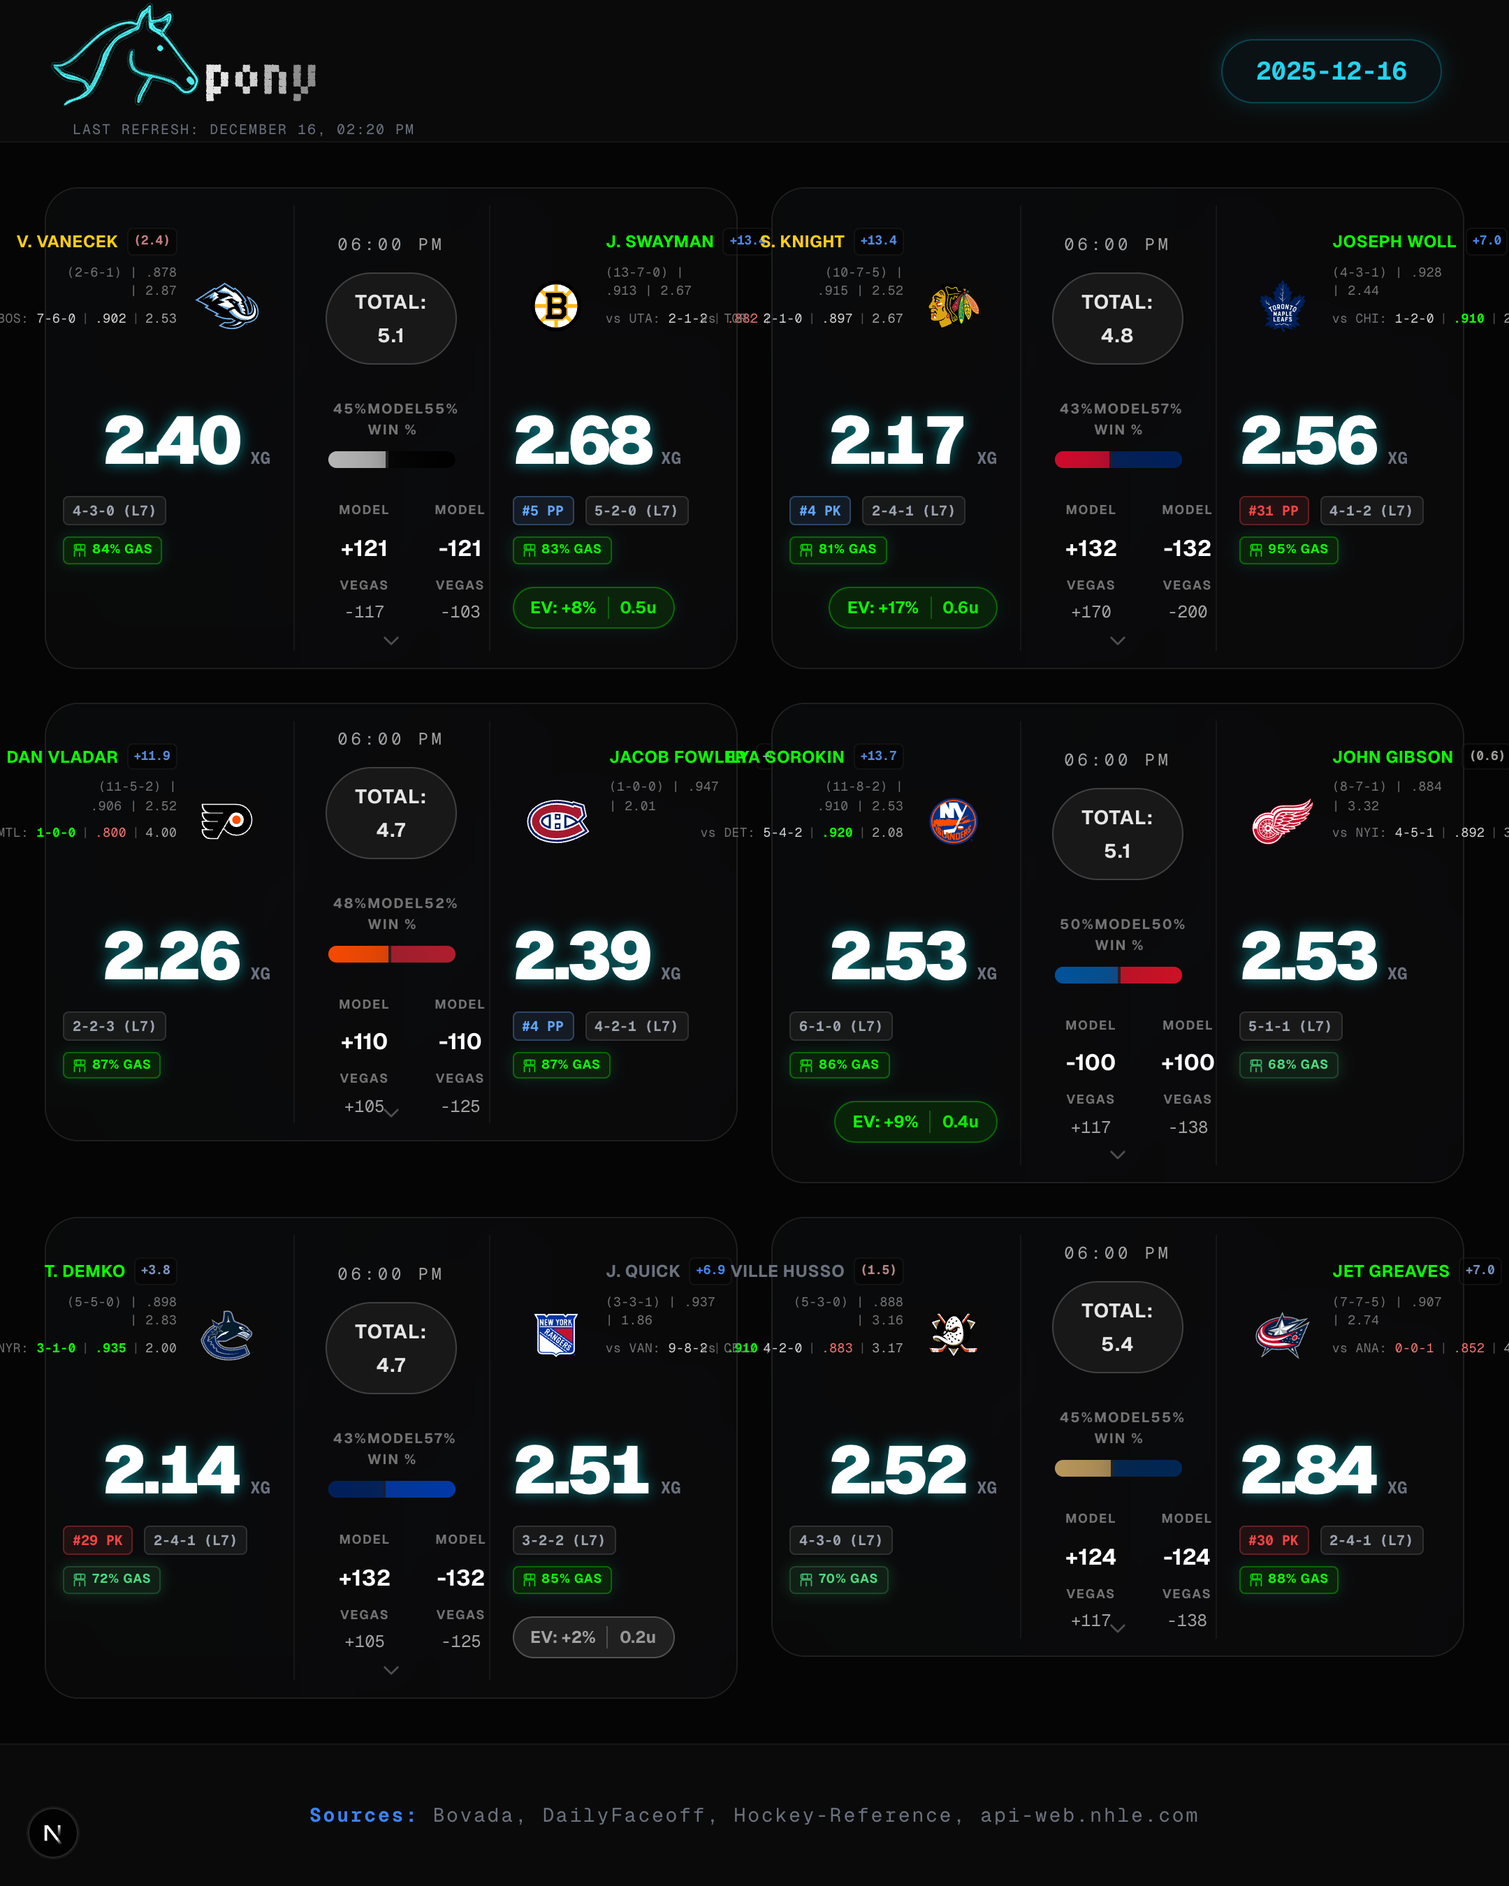
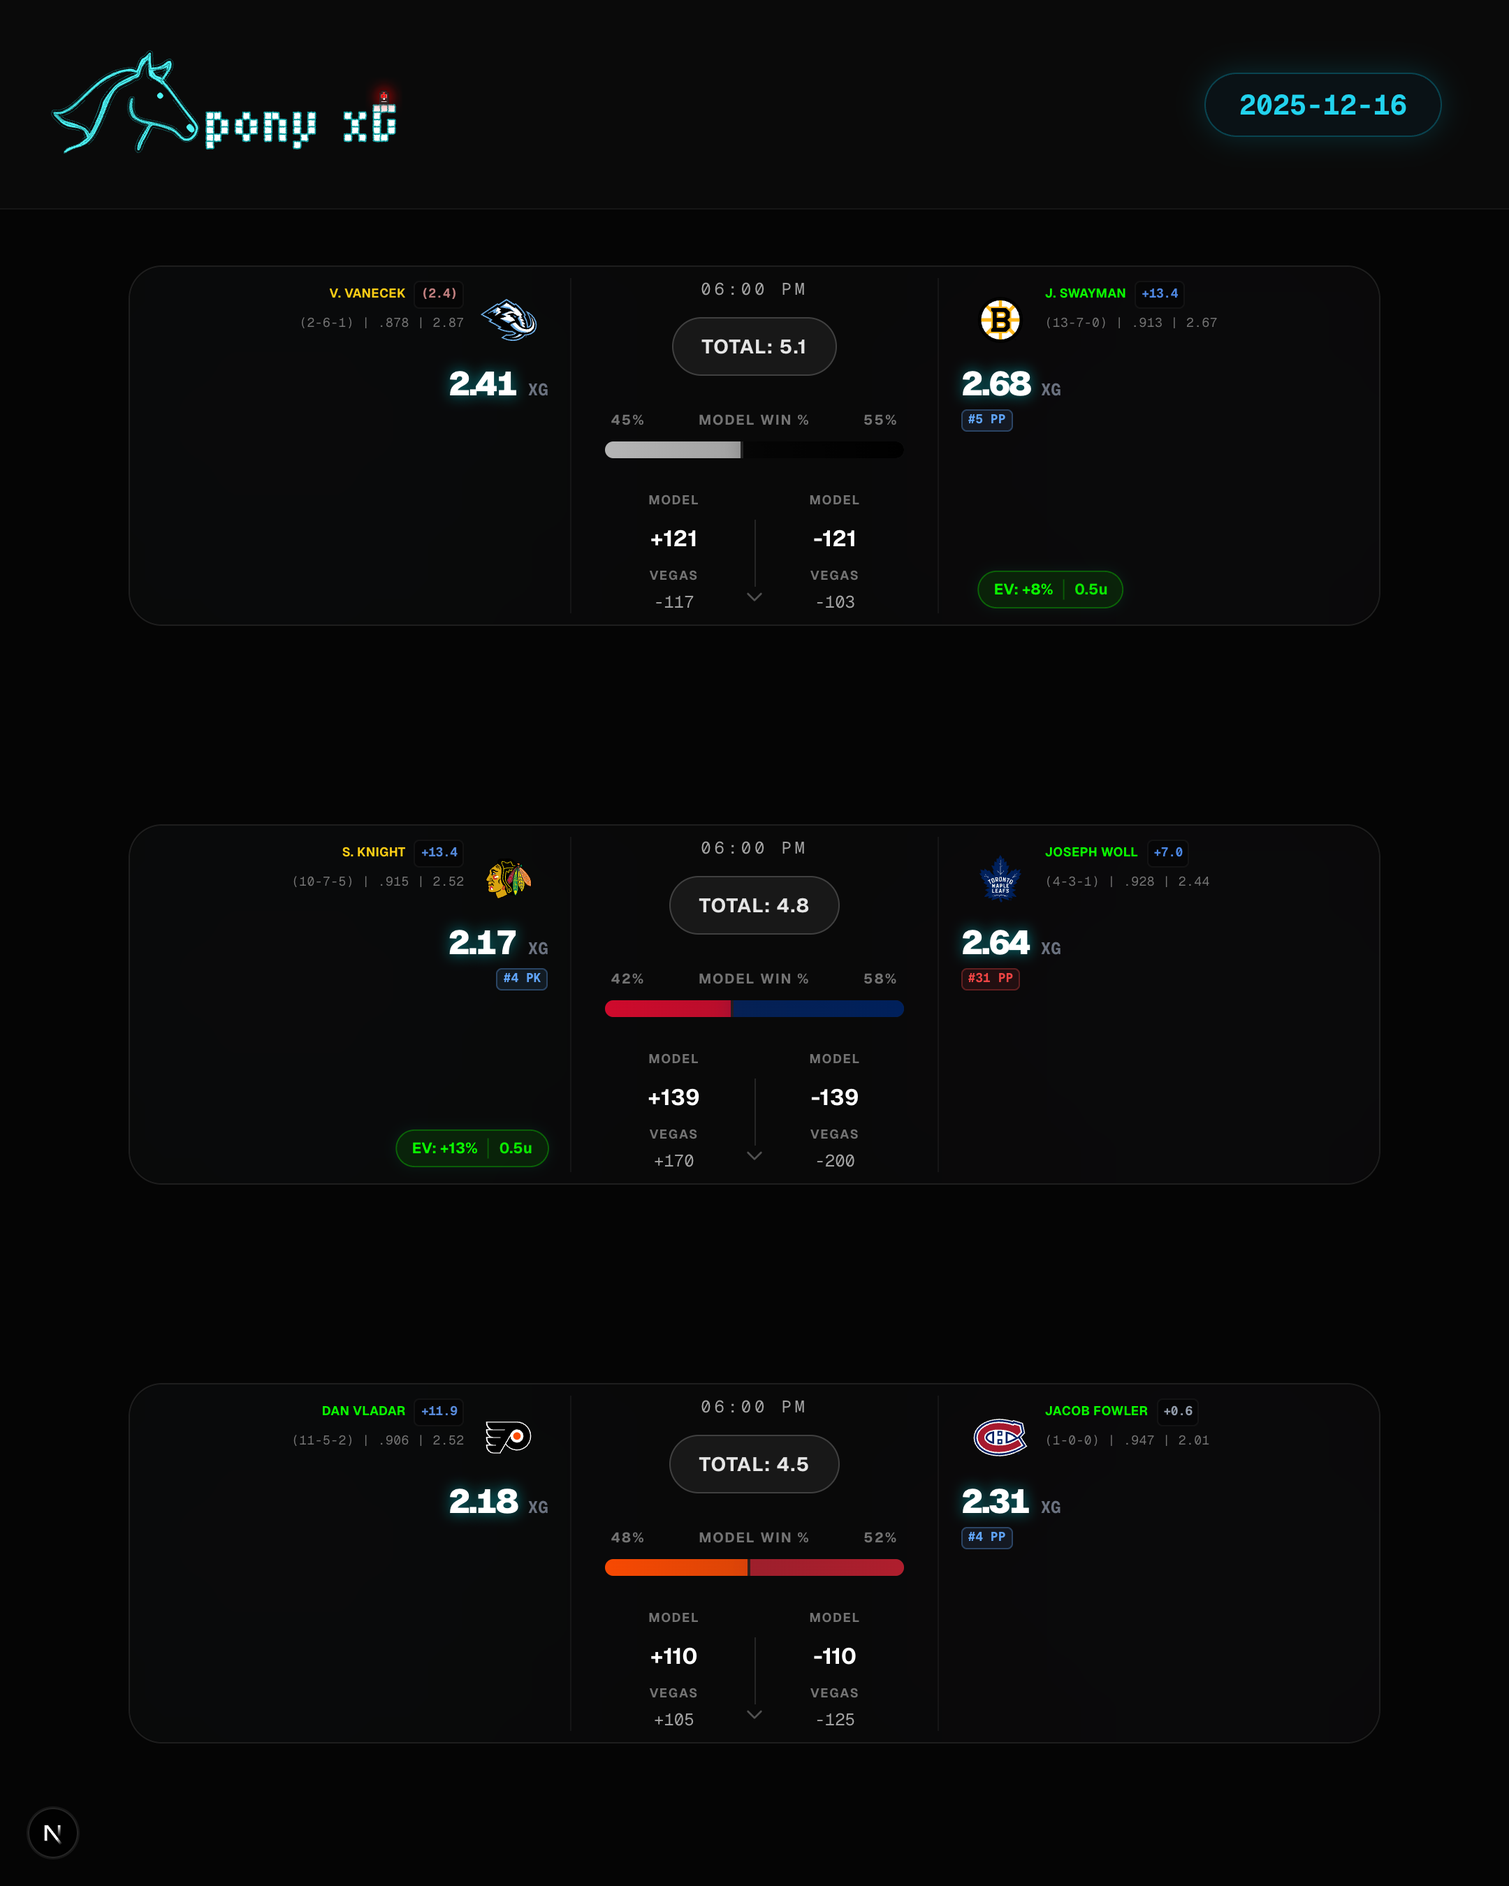
Auto-Update: Data & Predictions [2025-12-16 15:04:55]

diff --git a/components/MatchupCard.tsx b/components/MatchupCard.tsx
@@ -314,14 +314,18 @@ const MatchupCard: React.FC<MatchupCardProps> = ({ prediction, maxTotalGoals, is
         return "bg-neon-green/10 border border-neon-green/30 text-neon-green shadow-[0_0_10px_rgba(16,185,129,0.1)] hover:shadow-[0_0_15px_rgba(16,185,129,0.2)]";
     };
 
-    const Badge = ({ children, color = 'blue' }: { children: React.ReactNode, color?: 'blue' | 'red' | 'gray' }) => {
+    const Badge = ({ children, color = 'blue', size = 'sm' }: { children: React.ReactNode, color?: 'blue' | 'red' | 'gray', size?: 'xs' | 'sm' }) => {
         const colorClasses = {
             blue: 'text-blue-400 bg-blue-400/10 border-blue-400/30',
             red: 'text-red-500 bg-red-500/10 border-red-500/30',
             gray: 'text-gray-400 bg-white/5 border-white/10'
         };
+        const sizeClasses = {
+            xs: 'text-[9px] px-1 py-0',
+            sm: 'text-[10px] px-1.5 py-0.5'
+        };
         return (
-            <span className={`text-[10px] font-mono font-bold px-1.5 py-0.5 rounded border backdrop-blur-sm ${colorClasses[color]}`}>
+            <span className={`font-mono font-bold rounded border backdrop-blur-sm ${colorClasses[color]} ${sizeClasses[size]}`}>
                 {children}
             </span>
         );
@@ -415,7 +419,8 @@ const MatchupCard: React.FC<MatchupCardProps> = ({ prediction, maxTotalGoals, is
         goalieStats,
         vsOppStats,
         opponentTriCode,
-        odds
+        odds,
+        isSocial
     }: {
         team: any,
         isHome: boolean,
@@ -433,7 +438,8 @@ const MatchupCard: React.FC<MatchupCardProps> = ({ prediction, maxTotalGoals, is
         goalieStats?: string,
         vsOppStats?: string,
         opponentTriCode?: string,
-        odds?: string | number | null
+        odds?: string | number | null,
+        isSocial?: boolean
     }) => {
         const alignClass = isHome ? 'md:items-start md:text-left' : 'md:items-end md:text-right';
         const evBadge = ev && ev > 0 ? formatEv(ev) : null;
@@ -448,20 +454,20 @@ const MatchupCard: React.FC<MatchupCardProps> = ({ prediction, maxTotalGoals, is
         if (vsOppStats) { try { vsOpp = JSON.parse(vsOppStats); } catch (e) { } }
 
         return (
-            <div className={`flex flex-col items-center py-4 relative z-10 w-full h-full ${alignClass}`}>
+            <div className={`flex flex-col items-center ${isSocial ? 'py-0.5' : 'py-4'} relative z-10 w-full h-full ${alignClass}`}>
                 {/* Team Info Header */}
-                <div className={`flex flex-col gap-1 mb-4 w-full ${isHome ? 'md:flex-row' : 'md:flex-row-reverse'} items-center md:items-start`}>
+                <div className={`flex flex-col gap-1 ${isSocial ? 'mb-0.5' : 'mb-4'} w-full ${isHome ? 'md:flex-row' : 'md:flex-row-reverse'} items-center md:items-start`}>
                     <LogoDisplay
                         src={team.logoUrl}
                         alt={team.name}
                         triCode={team.triCode}
-                        className="w-20 h-20 md:w-28 md:h-28"
+                        className={isSocial ? "w-14 h-14" : "w-20 h-20 md:w-28 md:h-28"}
                         primaryColor={team.color1}
                         variant="animated"
                     />
-                    <div className={`flex flex-col ${alignClass} items-center min-w-0 max-w-full justify-center gap-1`}>
+                    <div className={`flex flex-col ${alignClass} items-center min-w-0 max-w-full justify-center gap-0.5`}>
                         <div className="flex items-center gap-1.5 flex-nowrap justify-center md:justify-start">
-                            <span className={`text-[10px] md:text-xs font-bold uppercase tracking-wide truncate max-w-full ${(status?.toUpperCase()?.includes('UNCONFIRMED')) ? 'text-gray-500' :
+                            <span className={`${isSocial ? 'text-[9px]' : 'text-[10px] md:text-xs'} font-bold uppercase tracking-wide truncate max-w-full ${(status?.toUpperCase()?.includes('UNCONFIRMED')) ? 'text-gray-500' :
                                 (status?.toUpperCase()?.includes('CONFIRMED')) ? 'text-neon-green' :
                                     (status?.toUpperCase()?.includes('LIKELY')) ? 'text-yellow-400' : 'text-gray-500'
                                 }`}>
@@ -483,9 +489,9 @@ const MatchupCard: React.FC<MatchupCardProps> = ({ prediction, maxTotalGoals, is
                 </div>
 
                 {/* Main Stats (xG) */}
-                <div className={`flex flex-col ${alignClass} mb-4 items-center`}>
+                <div className={`flex flex-col ${alignClass} ${isSocial ? 'mb-0.5' : 'mb-4'} items-center`}>
                     <div className="flex items-baseline gap-2">
-                        <span className="text-4xl md:text-5xl font-black text-white tracking-tighter tabular-nums text-glow-blue">
+                        <span className={`${isSocial ? 'text-2xl' : 'text-4xl md:text-5xl'} font-black text-white tracking-tighter tabular-nums text-glow-blue`}>
                             <AnimatedNumber value={xg} toFixed={2} />
                         </span>
                         <span className="text-xs font-mono text-gray-500 font-bold uppercase">xG</span>
@@ -498,18 +504,18 @@ const MatchupCard: React.FC<MatchupCardProps> = ({ prediction, maxTotalGoals, is
                 </div>
 
                 {/* Secondary Badges Row (Aligned immediately under xG) */}
-                <div className="flex flex-wrap gap-2 justify-center md:justify-start mb-4">
-                    {ppRank && ppRank <= 5 && <Badge color="blue">#{ppRank} PP</Badge>}
-                    {ppRank && ppRank >= 28 && <Badge color="red">#{ppRank} PP</Badge>}
-                    {pkRank && pkRank <= 5 && <Badge color="blue">#{pkRank} PK</Badge>}
-                    {pkRank && pkRank >= 28 && <Badge color="red">#{pkRank} PK</Badge>}
+                <div className={`flex flex-wrap gap-2 justify-center md:justify-start ${isSocial ? 'mb-0.5' : 'mb-4'}`}>
+                    {ppRank && ppRank <= 5 && <Badge color="blue" size={isSocial ? "xs" : "sm"}>#{ppRank} PP</Badge>}
+                    {ppRank && ppRank >= 28 && <Badge color="red" size={isSocial ? "xs" : "sm"}>#{ppRank} PP</Badge>}
+                    {pkRank && pkRank <= 5 && <Badge color="blue" size={isSocial ? "xs" : "sm"}>#{pkRank} PK</Badge>}
+                    {pkRank && pkRank >= 28 && <Badge color="red" size={isSocial ? "xs" : "sm"}>#{pkRank} PK</Badge>}
                     {l7 && <Badge color="gray">{l7} (L7)</Badge>}
-                    <GasGauge gas={gas} breakdown={gasBreakdown} align={isHome ? 'left' : 'right'} />
+                    {!isSocial && <GasGauge gas={gas} breakdown={gasBreakdown} align={isHome ? 'left' : 'right'} />}
                 </div>
 
                 {/* Wager Callout (Pushed to bottom) */}
                 {(evBadge || wager) && (
-                    <div className={`mt-auto inline-flex items-center gap-2 px-3 py-1.5 rounded-full transition-all text-xs font-bold ${getPillColors(wager, odds)} ${isHighEv && !isSocial ? 'animate-pulse-glow' : ''}`}>
+                    <div className={`mt-auto inline-flex items-center gap-2 px-3 py-1.5 rounded-full transition-all text-xs font-bold ${getPillColors(wager, odds)} ${isHighEv && !isSocial ? 'animate-pulse-glow' : ''} ${isSocial ? 'scale-90 origin-right' : ''}`}>
                         {evBadge && <span>EV: {evBadge}</span>}
                         {wager && <span className={`opacity-90 border-l pl-2 ${wager && wager.includes('u') && parseFloat(wager) < 0.3 && odds && (typeof odds === 'string' ? parseInt(odds) : odds) <= 110 ? 'border-neutral-600' : 'border-neon-green/30'}`}>{wager}</span>}
                     </div>
@@ -546,7 +552,7 @@ const MatchupCard: React.FC<MatchupCardProps> = ({ prediction, maxTotalGoals, is
                     </div>
                 )}
 
-                <div className={`${isSocial ? 'p-3' : 'p-6'} flex flex-row items-stretch justify-between w-full relative z-10`}>
+                <div className={`${isSocial ? 'p-2' : 'p-6'} flex flex-row items-stretch justify-between w-full relative z-10`}>
 
                     {/* AWAY TEAM (Left) */}
                     <div className="flex-1 min-w-0 relative z-20">
@@ -557,17 +563,18 @@ const MatchupCard: React.FC<MatchupCardProps> = ({ prediction, maxTotalGoals, is
                             xg={awayXg}
                             ppRank={prediction.away_pp_rank}
                             pkRank={prediction.away_pk_rank}
-                            l7={prediction.away_l7}
+                            l7={isSocial ? undefined : prediction.away_l7} // Hide L7 in social
                             ev={awayEv}
                             wager={awayWager}
-                            gas={prediction.away_gas}
+                            gas={isSocial ? undefined : prediction.away_gas} // Hide gas in social
                             gasBreakdown={prediction.away_gas_breakdown}
                             gsaxTotal={prediction.away_gsax_total}
                             gsaxPct={prediction.away_gsax_pct}
                             goalieStats={prediction.away_goalie_stats}
-                            vsOppStats={prediction.awayGoalieVsOpp}
+                            vsOppStats={isSocial ? undefined : prediction.awayGoalieVsOpp} // Hide vsOpp in social
                             opponentTriCode={homeTeam.triCode}
                             odds={awayVegasOdds}
+                            isSocial={isSocial}
                         />
                         <NewsIndicator
                             hasNews={!!(prediction.away_news && prediction.away_news.length > 0)}
@@ -644,19 +651,23 @@ const MatchupCard: React.FC<MatchupCardProps> = ({ prediction, maxTotalGoals, is
                             xg={homeXg}
                             ppRank={prediction.home_pp_rank}
                             pkRank={prediction.home_pk_rank}
-                            l7={prediction.home_l7}
+                            l7={isSocial ? undefined : prediction.home_l7}
                             ev={homeEv}
                             wager={homeWager}
-                            gas={prediction.home_gas}
+                            gas={isSocial ? undefined : prediction.home_gas}
                             gasBreakdown={prediction.home_gas_breakdown}
                             gsaxTotal={prediction.home_gsax_total}
                             gsaxPct={prediction.home_gsax_pct}
                             goalieStats={prediction.home_goalie_stats}
-                            vsOppStats={prediction.homeGoalieVsOpp}
+                            vsOppStats={isSocial ? undefined : prediction.homeGoalieVsOpp}
                             opponentTriCode={awayTeam.triCode}
                             odds={homeVegasOdds}
+                            isSocial={isSocial}
                         />
-                        <NewsIndicator hasNews={!!(prediction.home_news && prediction.home_news.length > 0)} />
+                        <NewsIndicator
+                            hasNews={!!(prediction.home_news && prediction.home_news.length > 0)}
+                            className="absolute bottom-2 right-2"
+                        />
                     </div>
                 </div>
 

diff --git a/app/social/page.tsx b/app/social/page.tsx
@@ -21,25 +21,23 @@ export default async function SocialPage({ searchParams }: { searchParams: Promi
     // Usually predictions are filtered by the pipeline, but let's ensure we group by date if multiple exist.
     // For now, take ALL predictions as they are usually for the upcoming slate.
 
-    // pagination: 6 per page
-    const pageSize = 6;
+    // pagination: 4 per page for 1x4 layout
+    const pageSize = 4;
     const startIndex = batchIndex * pageSize;
     const selectedPredictions = allPredictions.slice(startIndex, startIndex + pageSize);
+
+    const displayDate = selectedPredictions[0]?.date || new Date().toISOString().split('T')[0];
 
     // If no games, render empty or specific message
     if (selectedPredictions.length === 0) {
         return <div className="text-white">No more games.</div>;
     }
 
-    // Get current date for display (from the first game in the batch or system)
-    // Use the game date if available, otherwise formatted today
-    const displayDate = selectedPredictions[0]?.date || new Date().toISOString().split('T')[0];
-
     return (
-        <div className="w-[1080px] h-[1350px] bg-[#050505] text-white overflow-hidden relative font-sans flex flex-col">
+        <div className="w-[1080px] h-[1920px] bg-[#050505] text-white overflow-hidden relative font-sans flex flex-col">
 
-            {/* HEADER - 135px */}
-            <div className="h-[135px] w-full flex items-center justify-between px-12 border-b border-white/5 relative z-20 bg-[#0a0a0a]">
+            {/* HEADER - 150px */}
+            <div className="h-[150px] w-full flex items-center justify-between px-12 border-b border-white/5 relative z-20 bg-[#0a0a0a]">
 
                 {/* Logo & Refresh Time */}
                 <div className="flex flex-col justify-center">
@@ -49,27 +47,23 @@ export default async function SocialPage({ searchParams }: { searchParams: Promi
                             <FullLogoAnimated />
                         </div>
                     </div>
-                    <div className="text-[10px] text-gray-500 font-mono mt-1 tracking-widest uppercase pl-1">
-                        Last Refresh: {lastRefresh}
-                    </div>
                 </div>
 
                 {/* Date Pill */}
-                <div className="px-6 py-2 rounded-full border border-cyan-500/30 bg-cyan-950/20 text-cyan-400 font-mono text-lg font-bold shadow-[0_0_15px_rgba(6,182,212,0.2)]">
+                <div className="px-6 py-2 rounded-full border border-cyan-500/30 bg-cyan-950/20 text-cyan-400 font-mono text-xl font-bold shadow-[0_0_20px_rgba(6,182,212,0.2)]">
                     {displayDate}
                 </div>
             </div>
 
-            {/* GRID CONTENT - 1080px (Rest of space minus footer) */}
-            <div className="flex-1 w-full p-8">
-                <div className="grid grid-cols-2 grid-rows-3 gap-6 h-full">
+            {/* GRID CONTENT - Rest of space (approx 1650px) */}
+            <div className="flex-1 w-full p-10">
+                <div className="grid grid-cols-1 grid-rows-4 gap-[30px] h-full">
                     {selectedPredictions.map((pred) => (
                         <div key={pred.id} className="w-full h-full relative">
                             {/* 
-                                isSocial Mode:
-                                - No Box Shadows
-                                - Content fits 500x320 approx
-                                - No duplicate borders
+                                isSocial Mode Multi-Game Stack:
+                                - 4 games stacked vertically
+                                - Shorter, wider cards
                             */}
                             <MatchupCard
                                 prediction={pred}
@@ -81,15 +75,15 @@ export default async function SocialPage({ searchParams }: { searchParams: Promi
 
                     {/* Fill empty slots if any */}
                     {Array.from({ length: pageSize - selectedPredictions.length }).map((_, i) => (
-                        <div key={`empty-${i}`} className="w-full h-full rounded-2xl border border-white/5 bg-[#111]"></div>
+                        <div key={`empty-${i}`} className="w-full h-full rounded-3xl border border-white/5 bg-[#111]"></div>
                     ))}
                 </div>
             </div>
 
-            {/* FOOTER - 135px */}
-            <div className="h-[135px] w-full flex items-center justify-center border-t border-white/5 bg-[#0a0a0a] relative z-20">
-                <div className="text-gray-500 font-mono text-sm tracking-widest">
-                    <span className="text-blue-500 font-bold">Sources:</span> Bovada, DailyFaceoff, Hockey-Reference, api-web.nhle.com
+            {/* FOOTER - 120px */}
+            <div className="h-[120px] w-full flex items-center justify-center border-t border-white/5 bg-[#0a0a0a] relative z-20">
+                <div className="text-gray-500 font-mono text-sm tracking-widest uppercase">
+                    Pony xG <span className="mx-2">•</span> Automated NHL Predictions <span className="mx-2">•</span> @PonyxG
                 </div>
             </div>
 

diff --git a/scripts/generate_social_images.js b/scripts/generate_social_images.js
@@ -71,6 +71,9 @@ const OUTPUT_DIR = path.join(__dirname, '../DailyImages');
                 break;
             }
 
+            // Wait for logo animation and fonts (added delay)
+            await new Promise(r => setTimeout(r, 5000));
+
             // Screenshot
             const outFile = path.join(dayDir, `social_cards_batch_${batch + 1}.png`);
             await page.screenshot({ path: outFile }); // "fullPage" not needed as main div is fixed size
